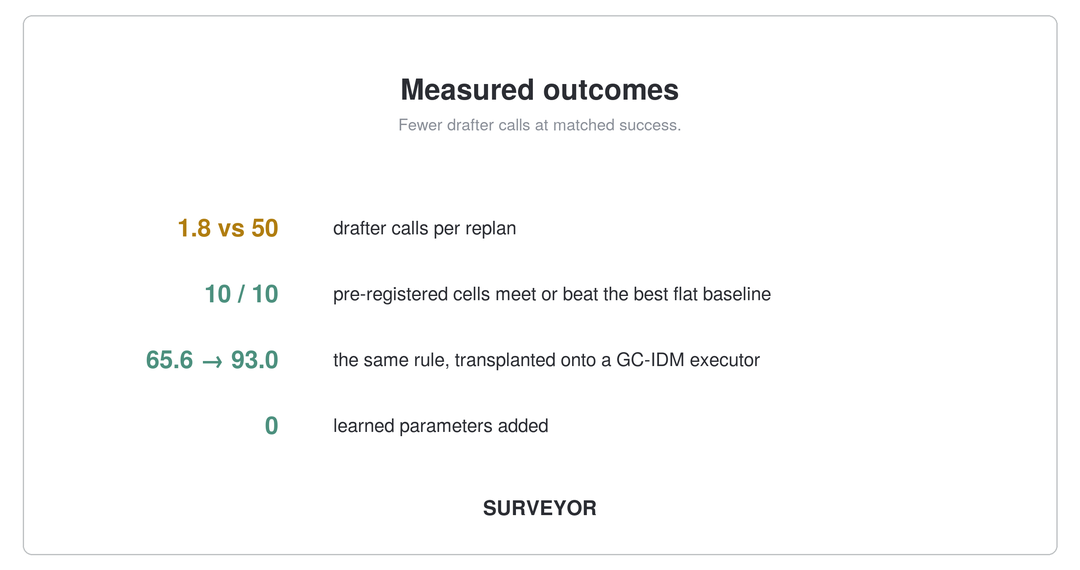
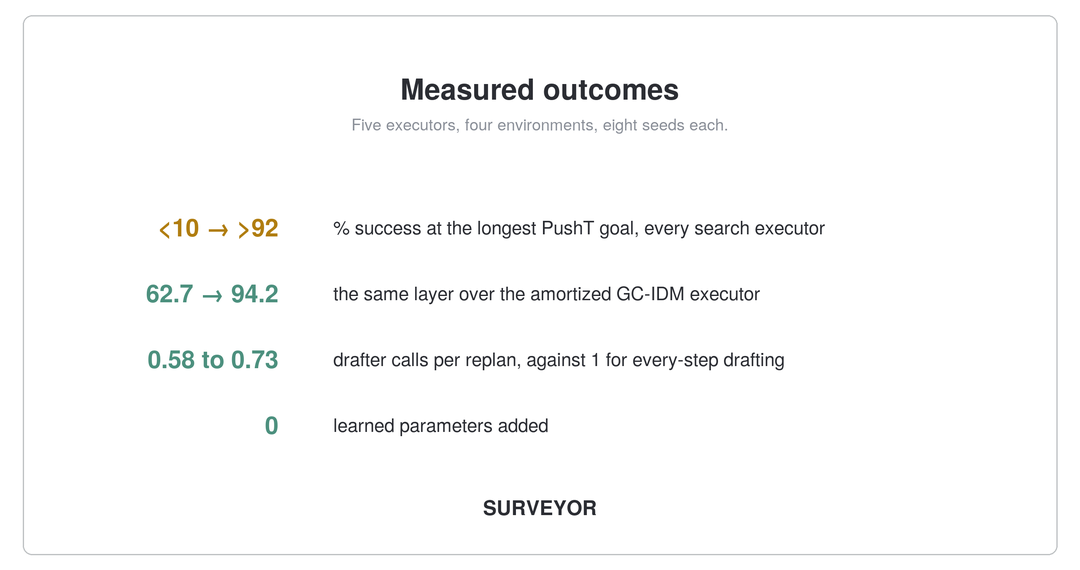
DOCS: restore the overview GIF, redrawn with the paper's title and results

diff --git a/docs/media/make_surveyor_overview.py b/docs/media/make_surveyor_overview.py
@@ -184,7 +184,7 @@ def title_slide(visible: float) -> Image.Image:
     text(
         draw,
         (WIDTH / 2, 257),
-        "Certified Speculative Plan Consumption for Latent World-Model Planning",
+        "Training-Free Decomposition for Long-Range Latent World-Model Planning",
         23,
         MUTED,
         anchor="mm",
@@ -446,7 +446,7 @@ def mech_frame(
     if footer_alpha > 0:
         text(draw, (WIDTH / 2, 612),
              "7 targets served \u00b7 2 drafter calls \u00b7 "
-             "flat planning pays 7",
+             "every-step drafting pays 7",
              20, INK, anchor="mm", alpha=footer_alpha)
     return image
 
@@ -567,27 +567,27 @@ def mechanism_frames() -> tuple[list[Image.Image], list[int]]:
 def constants_slide(visible: float) -> Image.Image:
     image, draw = canvas()
     heading(draw, "Measured, not tuned",
-            "Both constants are read off the frozen stack offline.")
+            "Both constants are measured offline, before any closed-loop run.")
 
     lx, rx = 175, 680
     text(draw, (lx, 262), "\u03c4", 30, AMBER, bold=True,
          alpha=alpha_for(visible, 0))
-    text(draw, (lx + 48, 268), "the criterion floor: the latent distance", 21,
+    text(draw, (lx + 48, 268), "the median latent distance between", 21,
          INK, alpha=alpha_for(visible, 0))
-    text(draw, (lx + 48, 298), "the task cannot distinguish", 21, INK,
+    text(draw, (lx + 48, 298), "states the task counts as equal", 21, INK,
          alpha=alpha_for(visible, 0))
     text(draw, (rx, 262), "k", 30, AMBER, bold=True,
          alpha=alpha_for(visible, 1))
-    text(draw, (rx + 48, 268), "the sampler's convergence point:", 21, INK,
+    text(draw, (rx + 48, 268), "where repeated drafts stop changing:", 21, INK,
          alpha=alpha_for(visible, 1))
-    text(draw, (rx + 48, 298), "the smallest budget past it", 21, INK,
+    text(draw, (rx + 48, 298), "the smallest budget at that point", 21, INK,
          alpha=alpha_for(visible, 1))
 
     draw.line((s(120), s(372), s(WIDTH - 120), s(372)),
               fill=rgba(tint(INK, 0.18)), width=s(1))
 
     text(draw, (WIDTH / 2, 420),
-         "whether to draft at all is the planner's own call:", 21, MUTED,
+         "whether to draft at all is read from a flat plan:", 21, MUTED,
          anchor="mm", alpha=alpha_for(visible, 2))
     text(draw, (WIDTH / 2, 468), "c*  \u2264  \u03c4  ?", 30, INK, bold=True,
          anchor="mm", alpha=alpha_for(visible, 2))
@@ -596,7 +596,7 @@ def constants_slide(visible: float) -> Image.Image:
     text(draw, (880, 530), "no \u2192 draft and verify", 22, AMBER,
          anchor="mm", alpha=alpha_for(visible, 3))
     text(draw, (WIDTH / 2, 590),
-         "same \u03c4, no new constant \u00b7 first crossing retires the drafter", 19,
+         "the same calibration rule \u00b7 the first crossing retires the drafter", 19,
          MUTED, anchor="mm", alpha=alpha_for(visible, 4))
     return image
 
@@ -606,12 +606,12 @@ def constants_slide(visible: float) -> Image.Image:
 def results_slide(visible: float) -> Image.Image:
     image, draw = canvas()
     heading(draw, "Measured outcomes",
-            "Fewer drafter calls at matched success.")
+            "Five executors, four environments, eight seeds each.")
 
     rows = [
-        ("1.8 vs 50", AMBER, "drafter calls per replan"),
-        ("10 / 10", TEAL, "pre-registered cells meet or beat the best flat baseline"),
-        ("65.6 \u2192 93.0", TEAL, "the same rule, transplanted onto a GC-IDM executor"),
+        ("<10 \u2192 >92", AMBER, "% success at the longest PushT goal, every search executor"),
+        ("62.7 \u2192 94.2", TEAL, "the same layer over the amortized GC-IDM executor"),
+        ("0.58 to 0.73", TEAL, "drafter calls per replan, against 1 for every-step drafting"),
         ("0", TEAL, "learned parameters added"),
     ]
     for index, (stat, color, label) in enumerate(rows):

diff --git a/README.md b/README.md
@@ -2,6 +2,11 @@
 
 Code for *SURVEYOR: Training-Free Decomposition for Long-Range Latent World-Model Planning*.
 
+<p align="center">
+  <img src="docs/media/surveyor_overview.gif" width="900"
+       alt="Animated overview of SURVEYOR: a drafter proposes latent subgoals, the accept rule reuses them while the achieved state stays within the tolerance and re-drafts when it leaves it, and the arbiter decides whether to draft at all.">
+</p>
+
 SURVEYOR is a training-free layer between an executor (a planner or policy) and a frozen LeWM world model. A drafter
 proposes latent subgoals a fixed number of steps ahead. The accept rule reuses the remaining draft while the achieved
 latent stays within a tolerance of the subgoal just pursued, and re-drafts otherwise. The arbiter plans flat toward the
